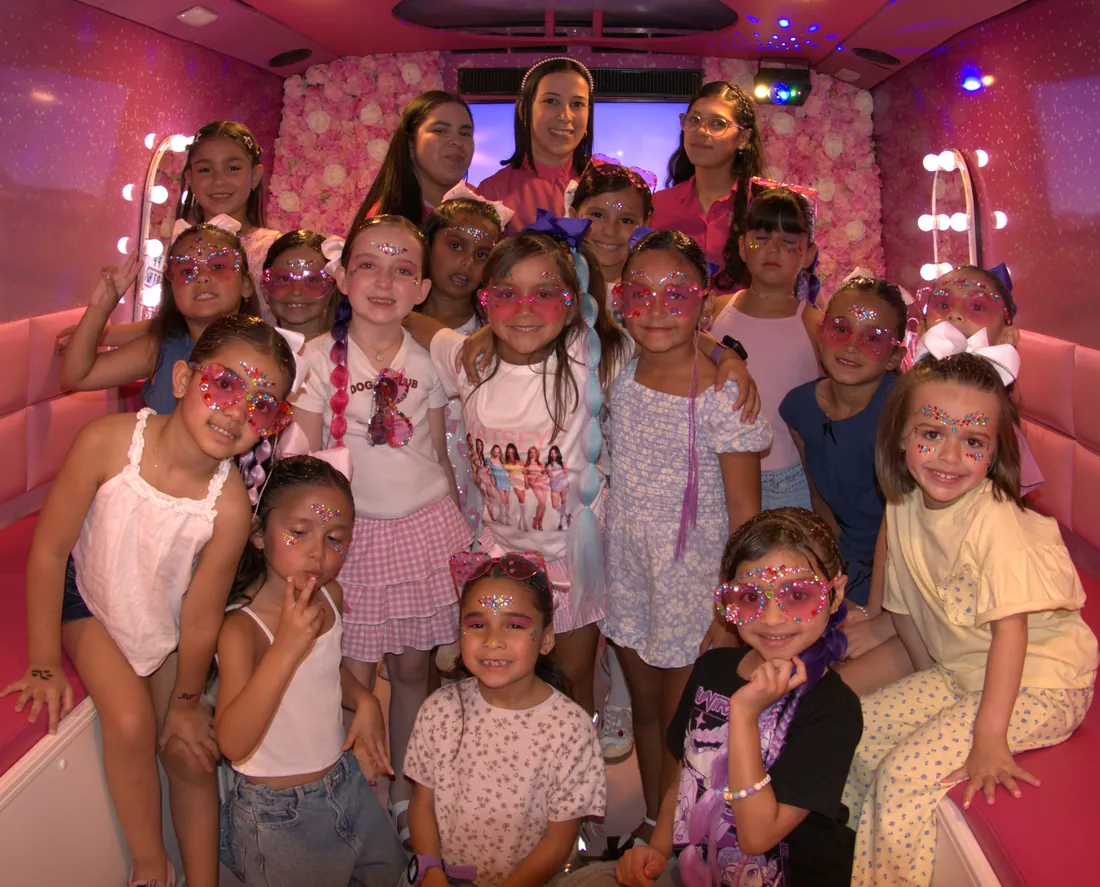
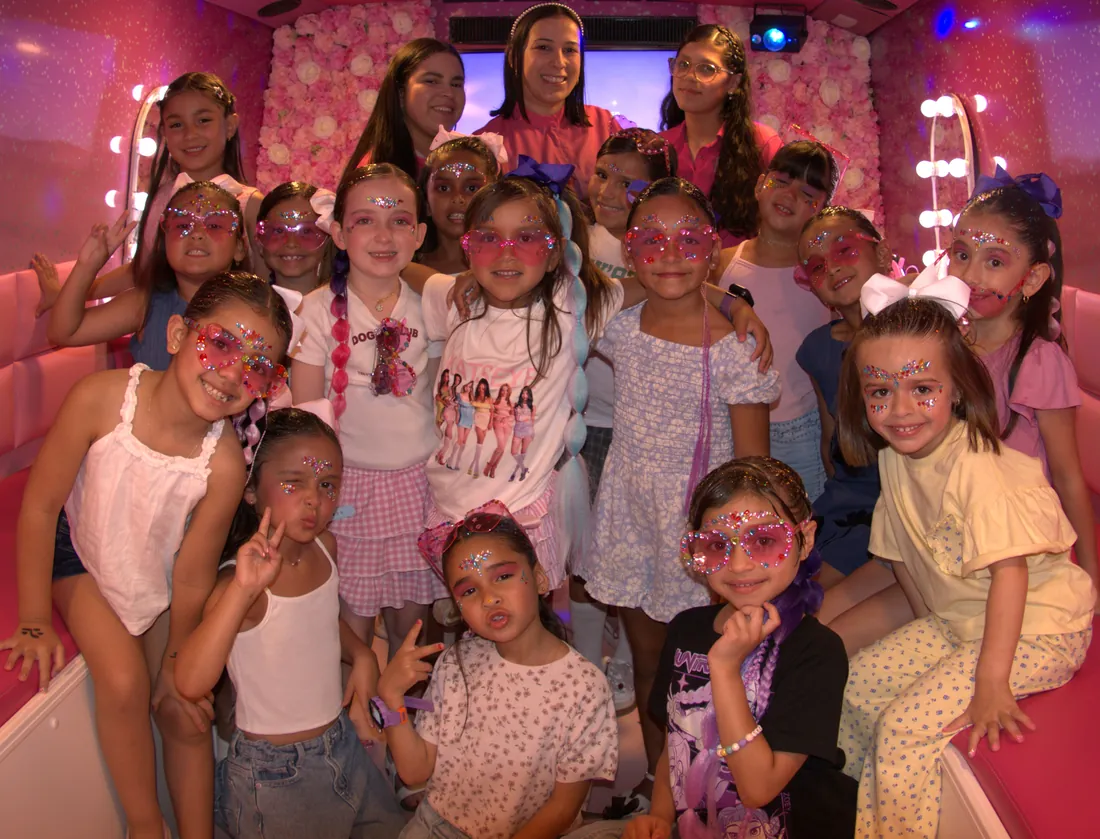
Images: update hero (3 new exteriors), about-us photo, experience set
- Hero: replace old 1–8 with 3 new bus-exterior webp (bus.webp still shows
  first, then 1–3); raw PNG sources moved to git-ignored images/Pictures/hero-src
- About: new group photo → about-us.webp
- Experience carousel: now the kept set (01 interior + 03 entrance)

diff --git a/public/index.html b/public/index.html
@@ -54,11 +54,6 @@
     <img class="hg-slide" src="images/hero/1.webp" alt="" loading="lazy">
     <img class="hg-slide" src="images/hero/2.webp" alt="" loading="lazy">
     <img class="hg-slide" src="images/hero/3.webp" alt="" loading="lazy">
-    <img class="hg-slide" src="images/hero/4.webp" alt="" loading="lazy">
-    <img class="hg-slide" src="images/hero/5.webp" alt="" loading="lazy">
-    <img class="hg-slide" src="images/hero/6.webp" alt="" loading="lazy">
-    <img class="hg-slide" src="images/hero/7.webp" alt="" loading="lazy">
-    <img class="hg-slide" src="images/hero/8.webp" alt="" loading="lazy">
   </div>
   <div class="container">
     <div class="hero-content">
@@ -108,11 +103,7 @@
       <div class="panel" style="background:none; border:0">
         <div class="exp-carousel" id="expCarousel">
           <img class="exp-slide is-active" src="images/experience/01.jpg" alt="Inside the Pink Spa Bus — glam mirror stations">
-          <img class="exp-slide" src="images/experience/02.jpg" alt="The Pink Spa Bus — arrives at your door" loading="lazy">
-          <img class="exp-slide" src="images/experience/03.jpg" alt="Inside the bus — neon glam lounge" loading="lazy">
-          <img class="exp-slide" src="images/experience/04.jpg" alt="The Pink Spa Bus — fully wrapped exterior" loading="lazy">
-          <img class="exp-slide" src="images/experience/05.jpg" alt="Step aboard — the pink entrance" loading="lazy">
-          <img class="exp-slide" src="images/experience/06.jpg" alt="The Pink Spa Bus parked and ready" loading="lazy">
+          <img class="exp-slide" src="images/experience/03.jpg" alt="Step aboard — the pink entrance" loading="lazy">
         </div>
       </div>
       <div class="vrule"></div>
